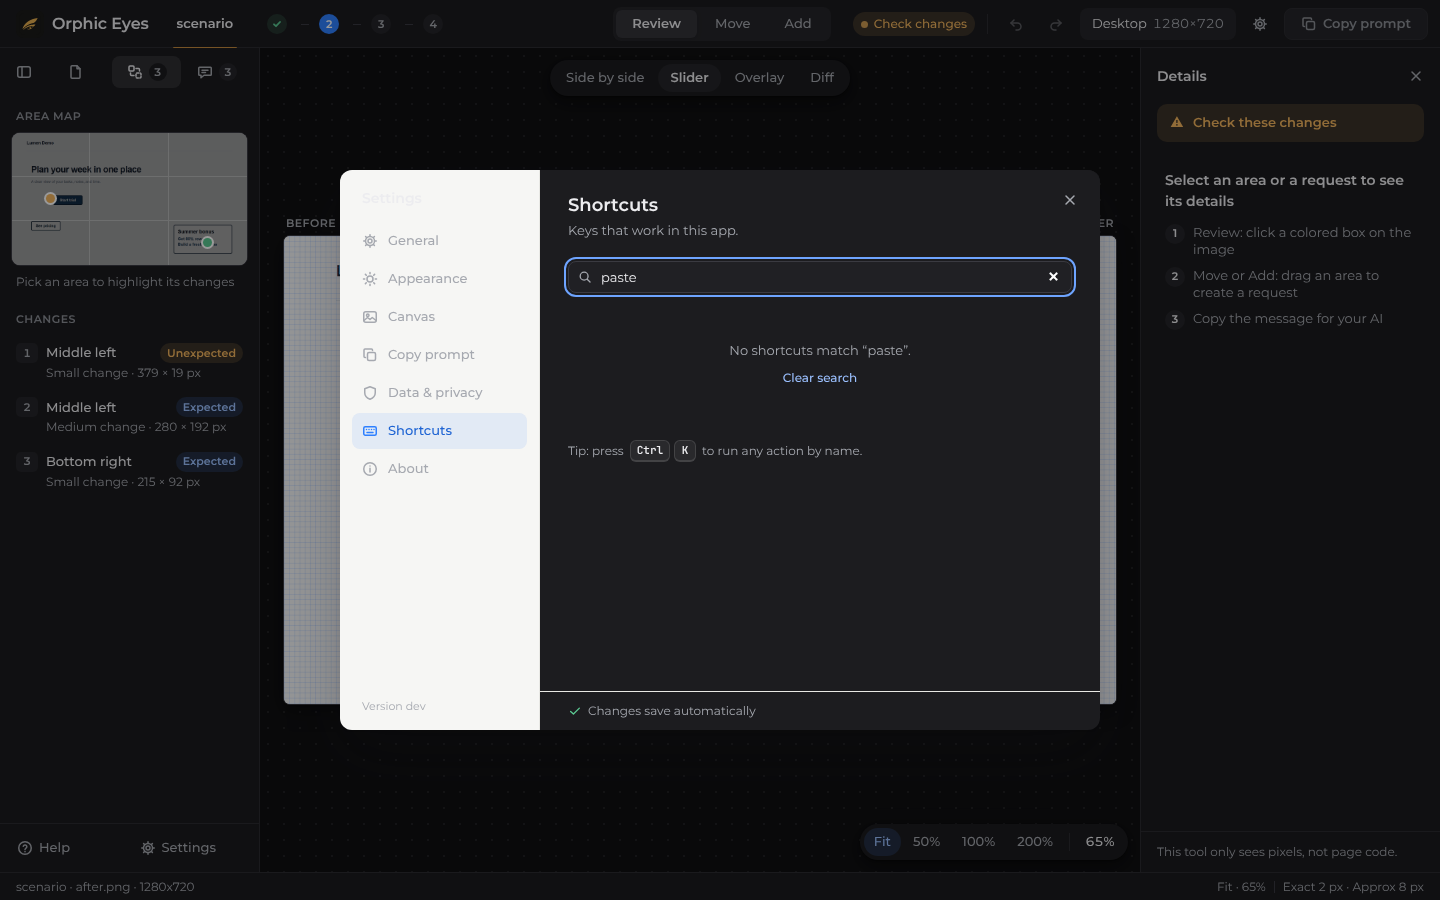
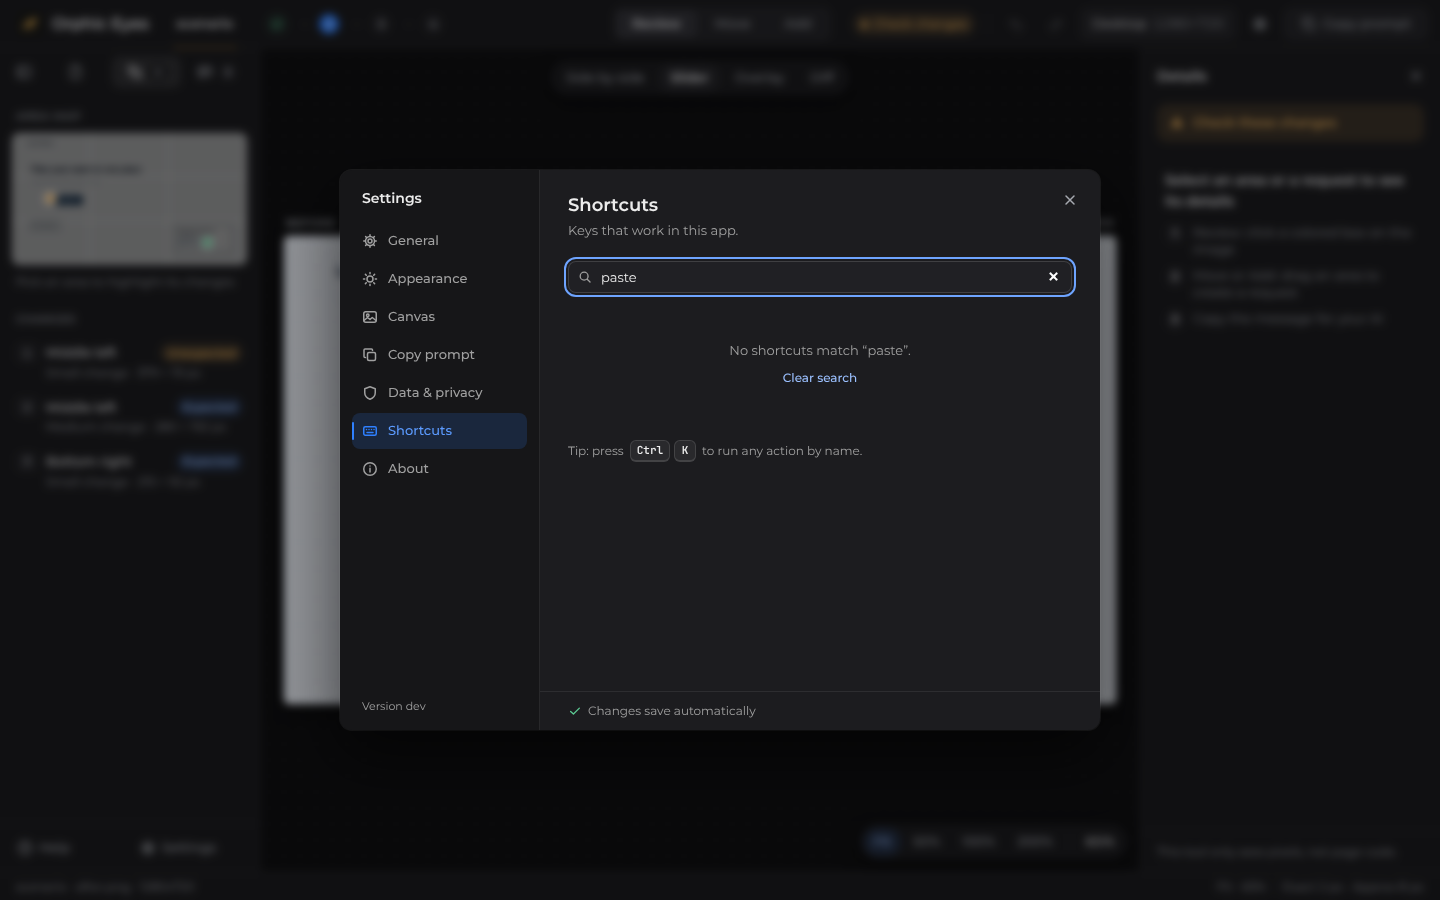
Settings: optional polish
2px blue bar on the active tab (desktop), 4px backdrop blur, a 1.2s
'Saved' flash in the footer after a change (role=status; not when Reset
is only armed), matched search text marked, and the last open tab is
remembered for the session. Controls animate in 120ms; Reduce motion
turns it off. Screenshots of every tab, light and dark.

Claude-Session: https://claude.ai/code/session_01J6JgzgLoqWiLpKrL82sA6v

diff --git a/engine/templates/report.html b/engine/templates/report.html
@@ -583,6 +583,10 @@ body.insp-closed .inspector{border-left:0}
 .st-nav [role="tab"]:hover{background:var(--hover);color:var(--st-ink)}
 .st-nav [role="tab"][aria-selected="true"]{background:var(--st-active-bg);color:var(--st-active-ink)}
 .st-nav [role="tab"][aria-selected="true"] .ic{color:var(--st-active)}
+.st-nav [role="tab"][aria-selected="true"]::before{content:"";position:absolute;left:0;top:9px;bottom:9px;width:2px;border-radius:2px;background:var(--st-active)}
+.scrim.st-scrim{-webkit-backdrop-filter:blur(4px);backdrop-filter:blur(4px)}
+.st-foot.saved{color:var(--st-ink)}
+.st-foot span{transition:color var(--dur-fast) var(--ease-out)}
 .st-version{margin:auto 10px 4px;font-size:var(--fs-cap);color:var(--st-muted)}
 .st-side-close,.st-back,.st-nav .st-chev{display:none}
 .st-side-head{display:flex;align-items:center;justify-content:space-between}
@@ -822,7 +826,7 @@ mark.st-hit{background:rgba(47,128,255,.18);color:inherit;border-radius:3px}
   .st-nav [role="tab"] .ic{width:18px;height:18px;color:var(--st-muted)}
   .st-nav [role="tab"]:hover,.st-nav [role="tab"][aria-selected="true"]{background:none;color:var(--st-ink)}
   .st-nav [role="tab"][aria-selected="true"] .ic{color:var(--st-muted)}
-  .st-nav [role="tab"]::before{display:none}
+  .st-nav [role="tab"][aria-selected="true"]::before{content:none}
   .st-nav .st-chev{display:block;margin-left:auto;width:16px;height:16px;transform:rotate(-90deg);color:var(--st-muted)}
   .st-version{margin:8px 20px 0}
   .st-close{display:none}
@@ -5704,7 +5708,7 @@ mark.st-hit{background:rgba(47,128,255,.18);color:inherit;border-radius:3px}
     } else if (tab === 'privacy') {
       pane.appendChild(stCallout('Images and references stay in this tab and are never uploaded. Only your preferences are saved, in this browser.'));
       var reset = stButton('reset', resetArmed ? 'Click again to reset' : 'Reset preferences', function () {
-        if (!resetArmed) { resetArmed = true; refreshSettings(); return; }
+        if (!resetArmed) { resetArmed = true; refreshSettings(true); return; }
         resetArmed = false;
         resetPreferences();
       }, 'st-btn-danger' + (resetArmed ? ' armed' : ''));
@@ -5833,6 +5837,7 @@ mark.st-hit{background:rgba(47,128,255,.18);color:inherit;border-radius:3px}
     panel.appendChild(head);
     main.appendChild(panel);
     var foot = el('div', 'st-foot');
+    foot.setAttribute('role', 'status');
     foot.appendChild(icon('check'));
     foot.appendChild(el('span', null, 'Changes save automatically'));
     main.appendChild(foot);
@@ -5861,9 +5866,22 @@ mark.st-hit{background:rgba(47,128,255,.18);color:inherit;border-radius:3px}
     setTimeout(focusShortcutSearch, 0);
   }
   /* Re-draw the open panel after a change; keep its scroll and the focused control. */
-  function refreshSettings() {
+  var savedTimer = null;
+  function flashSaved(modal) {
+    var foot = modal.querySelector('.st-foot');
+    var text = foot.querySelector('span');
+    foot.classList.add('saved');
+    text.textContent = 'Saved';
+    if (savedTimer) clearTimeout(savedTimer);
+    savedTimer = setTimeout(function () {
+      foot.classList.remove('saved');
+      text.textContent = 'Changes save automatically';
+    }, 1200);
+  }
+  function refreshSettings(noFlash) {
     var modal = document.querySelector('#layer .st-modal');
     if (!modal) return;
+    if (noFlash !== true) flashSaved(modal);
     var panel = modal.querySelector('.st-panel');
     var active = document.activeElement;
     var key = active && panel.contains(active) ? active.getAttribute('data-st-key') : null;
